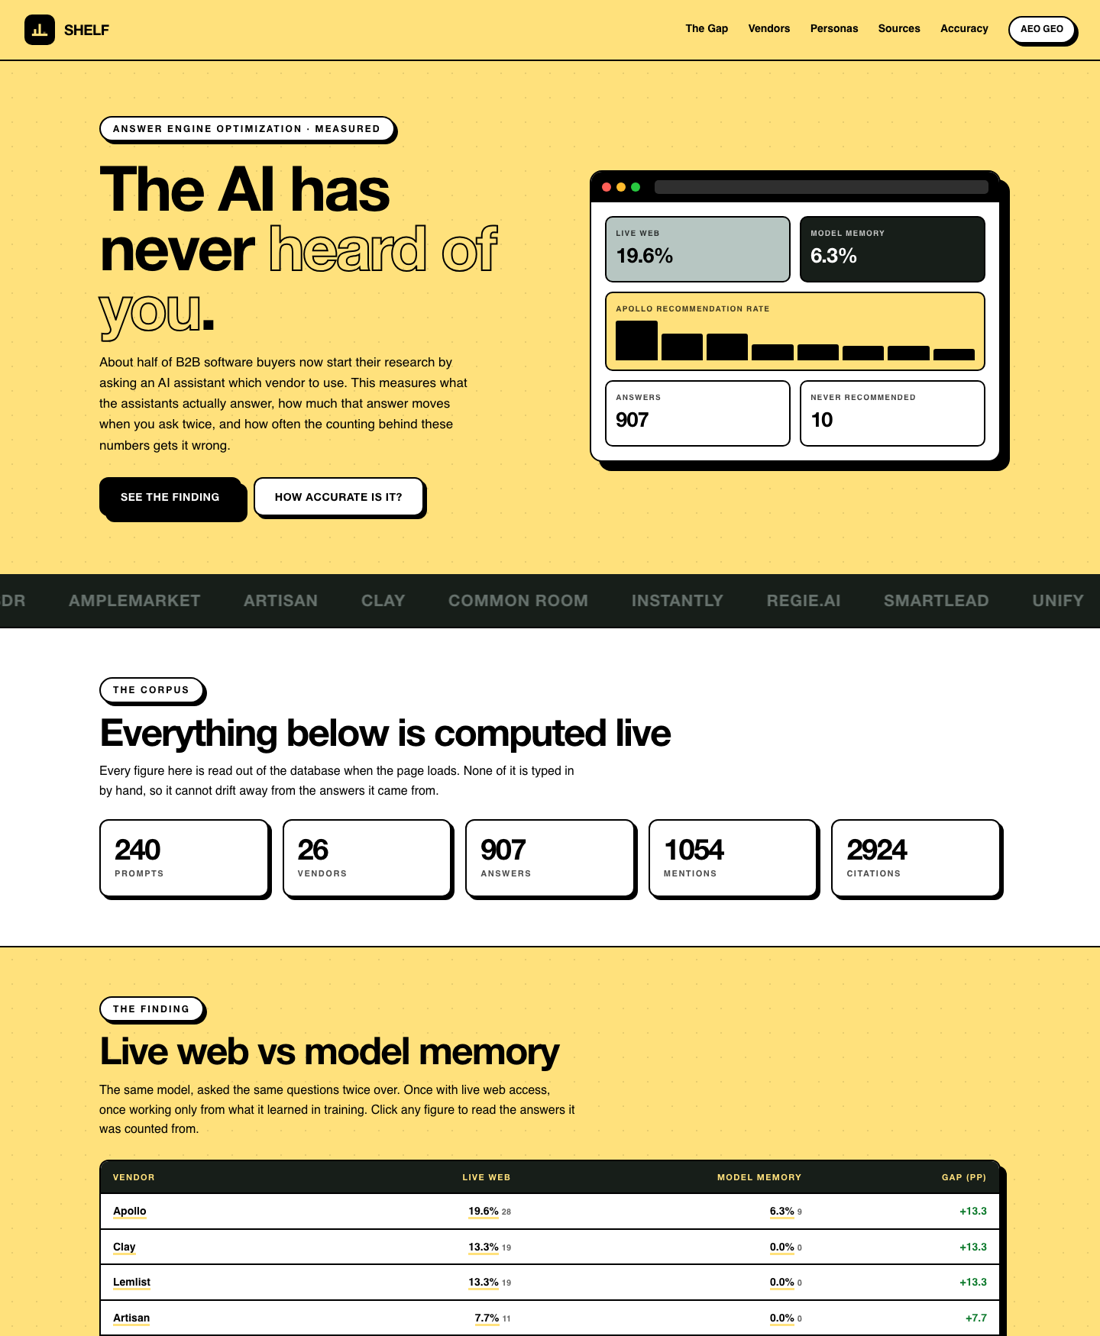
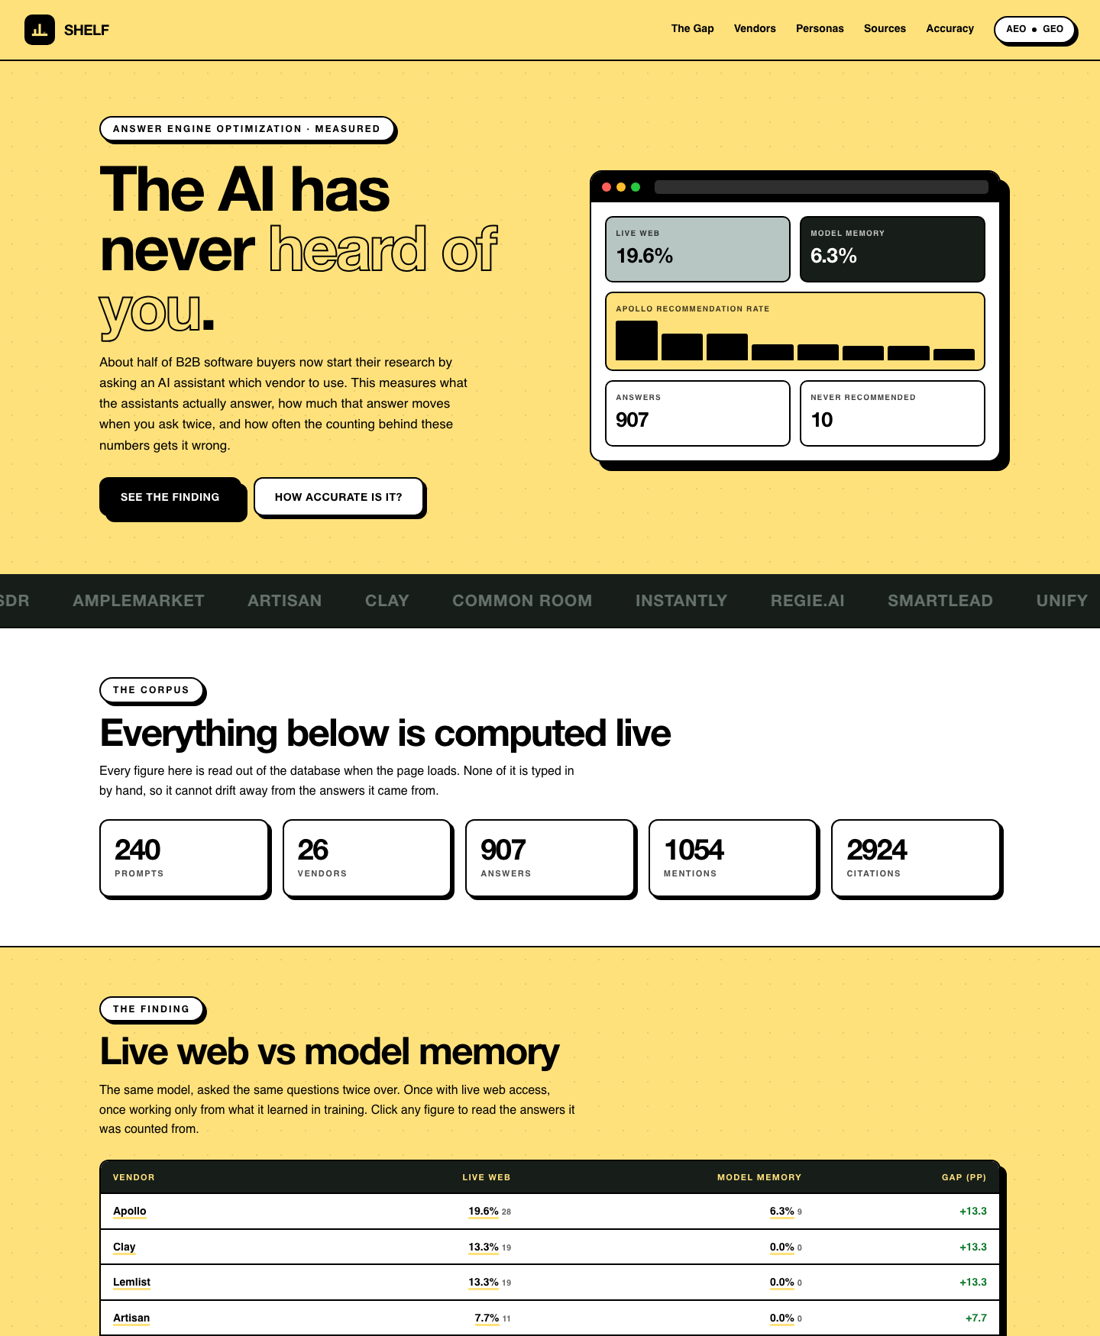
Separate AEO and GEO with a dot

diff --git a/shelf/serve.py b/shelf/serve.py
@@ -232,6 +232,8 @@ nav{margin-left:auto;display:flex;gap:26px;align-items:center}
 nav a{font-weight:700;font-size:14px;text-decoration:none;padding-bottom:2px;
       border-bottom:2px solid transparent}
 nav a:hover{border-bottom-color:var(--ink)}
+.sep{width:6px;height:6px;border-radius:50%;background:var(--ink);
+     display:inline-block;margin:0 8px;flex:none}
 .live{display:flex;align-items:center;background:var(--white);
       border:2px solid var(--ink);border-radius:999px;padding:6px 14px;
       font-weight:700;font-size:12px;box-shadow:4px 4px 0 0 var(--ink);
@@ -387,7 +389,7 @@ footer b{color:var(--yellow);font-family:var(--disp);letter-spacing:-.02em}
     <a href="#slice-sec">Personas</a>
     <a href="#cite-sec">Sources</a>
     <a href="#cal-sec">Accuracy</a>
-    <div class="live">AEO GEO</div>
+    <div class="live">AEO<span class="sep"></span>GEO</div>
   </nav>
 </header>
 
